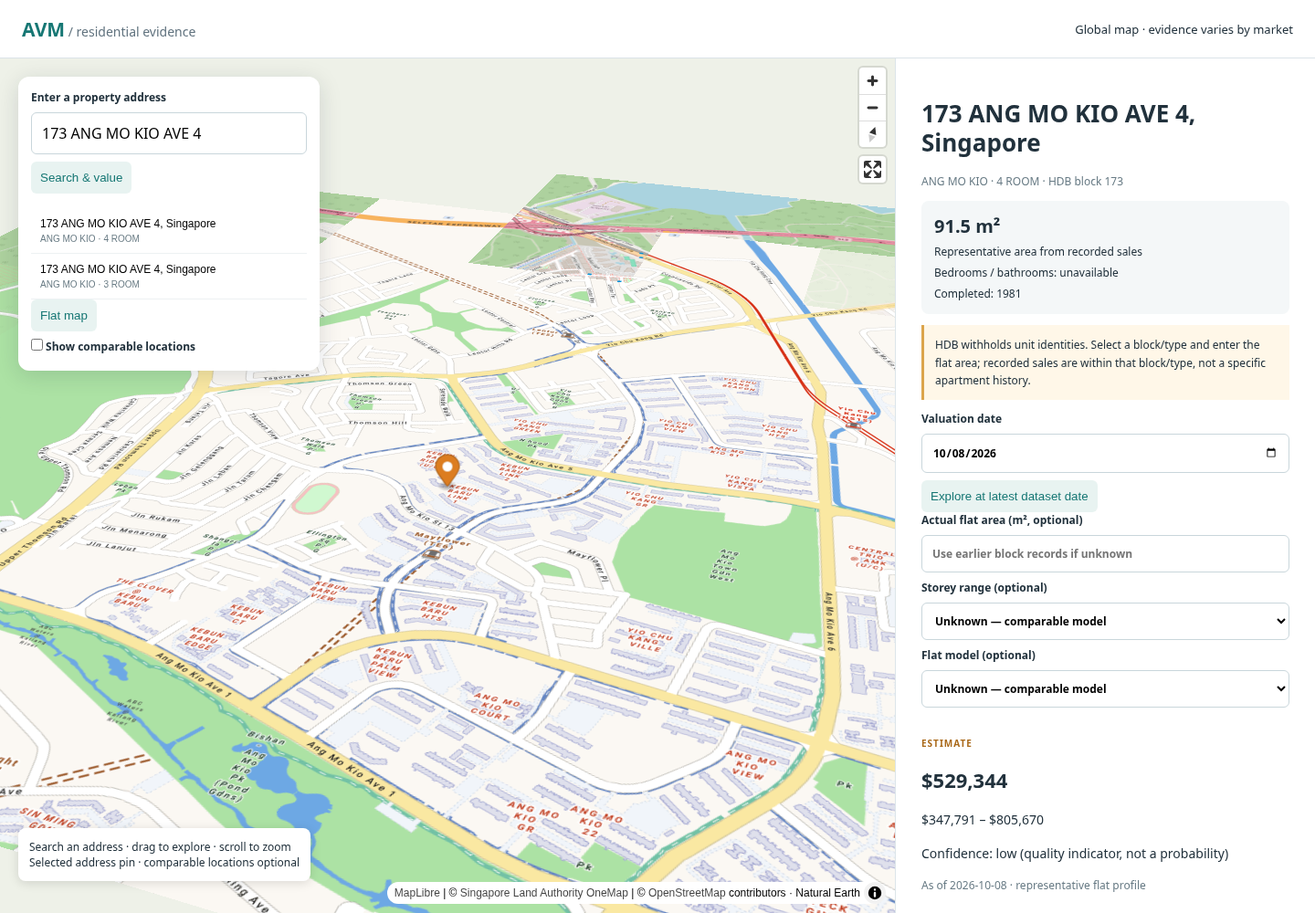
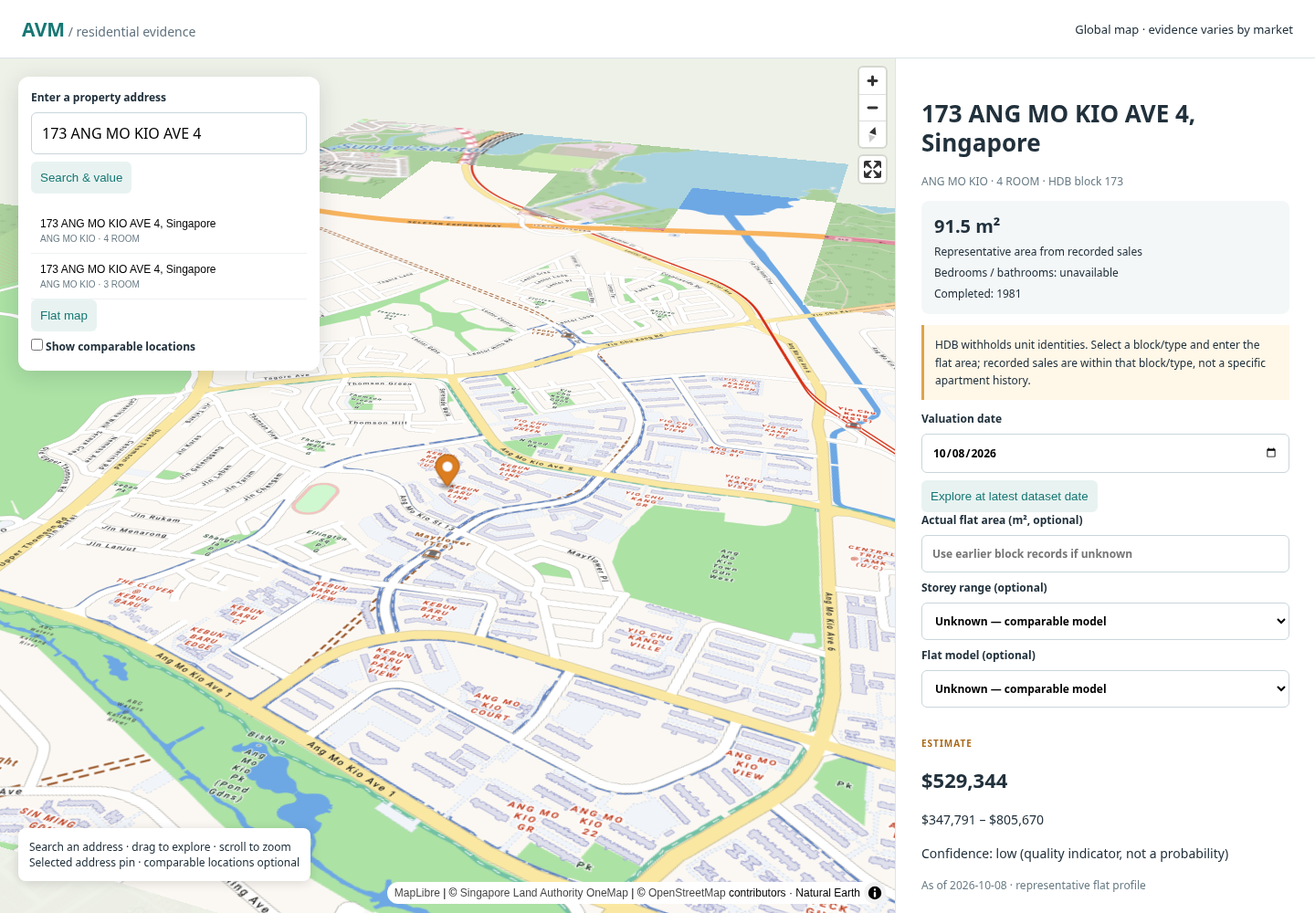
Delete unproven 3D viewer and redundant automatic requests after requirements audit

Changed region(s): [[0.2188, 0.124, 0.6875, 0.341], [0.0, 0.217, 0.0312, 0.248]]

diff --git a/frontend/src/main.jsx b/frontend/src/main.jsx
@@ -27,10 +27,10 @@ function Timeline({result}){
 function App(){
   const [properties,setProperties]=useState([]),[meta,setMeta]=useState(null),[query,setQuery]=useState(''),[selected,setSelected]=useState(null),[result,setResult]=useState(null),[error,setError]=useState(''),[busy,setBusy]=useState(false);
   const [on,setOn]=useState(new Date().toISOString().slice(0,10)),[mapError,setMapError]=useState('');
-  const [area,setArea]=useState(''),[floor,setFloor]=useState(''),[flatModel,setFlatModel]=useState(''),[location,setLocation]=useState(null),[coverage,setCoverage]=useState(null),[globalPlaces,setGlobalPlaces]=useState([]),[bench,setBench]=useState(null),[evidence,setEvidence]=useState(null),[discovering,setDiscovering]=useState(false);
+  const [area,setArea]=useState(''),[floor,setFloor]=useState(''),[flatModel,setFlatModel]=useState(''),[location,setLocation]=useState(null),[globalPlaces,setGlobalPlaces]=useState([]),[evidence,setEvidence]=useState(null);
   const container=useRef(null),map=useRef(null),requestId=useRef(0);
-  const [showComparables,setShowComparables]=useState(false),[tilted,setTilted]=useState(false),[searching,setSearching]=useState(false);
-  useEffect(()=>{Promise.all([api('/metadata'),api('/coverage'),api('/benchmark')]).then(([m,c,b])=>{setMeta(m);setCoverage(c);setBench(b)}).catch(e=>setError(e.message))},[]);
+  const [showComparables,setShowComparables]=useState(false),[tilted,setTilted]=useState(false),[searching,setSearching]=useState(false),[showImagery,setShowImagery]=useState(false);
+  useEffect(()=>{api('/metadata').then(setMeta).catch(e=>setError(e.message))},[]);
   useEffect(()=>{setGlobalPlaces([]);if(query.trim().length<3){setProperties([]);return;}const controller=new AbortController();const timer=setTimeout(()=>{api('/properties?q='+encodeURIComponent(query.trim())+'&limit=20',{signal:controller.signal}).then(setProperties).catch(e=>{if(e.name!=='AbortError')setError(e.message)})},300);return()=>{clearTimeout(timer);controller.abort()}},[query]);
   useEffect(()=>{
     const m=new maplibregl.Map({container:container.current,center:[10,20],zoom:1.5,style:{version:8,sources:{world:{type:'geojson',data:'/world.geojson'},osm:{type:'raster',tiles:[import.meta.env.VITE_TILE_URL||window.location.origin+'/basemap/world/{z}/{x}/{y}.png'],tileSize:256,attribution:'© <a href="https://www.openstreetmap.org/copyright">OpenStreetMap</a> contributors · Natural Earth'},onemap:{type:'raster',tiles:[window.location.origin+'/basemap/sg/{z}/{x}/{y}.png'],tileSize:256,bounds:[103.59,1.13,104.12,1.48],minzoom:9,maxzoom:18,attribution:'© <a href="https://www.onemap.gov.sg/">Singapore Land Authority OneMap</a>'}},layers:[{id:'ocean',type:'background',paint:{'background-color':'#dcebf0'}},{id:'countries',type:'fill',source:'world',paint:{'fill-color':'#eef1e8'}},{id:'borders',type:'line',source:'world',paint:{'line-color':'#adc0bd','line-width':1}},{id:'basemap',type:'raster',source:'osm'},{id:'official-sg',type:'raster',source:'onemap'}]}});
@@ -51,21 +51,14 @@ function App(){
     if(selected&&showComparables)result?.comparable_sales_used.forEach(c=>markers.push(new maplibregl.Marker({color:'#7957a4',scale:.7}).setLngLat([c.longitude,c.latitude]).setPopup(new maplibregl.Popup().setText(money(c.original_price)+' · '+c.area_sqm+' m² · '+c.sale_date.slice(0,7))).addTo(m)));
     return()=>markers.forEach(m=>m.remove());
   },[selected,result,location,showComparables]);
-  useEffect(()=>{
-    setEvidence(null);if(!location){setDiscovering(false);return;}
-    let active=true;setDiscovering(true);
-    api('/evidence/discover',{method:'POST',headers:{'Content-Type':'application/json'},body:JSON.stringify({latitude:location.lat,longitude:location.lon})})
-      .then(r=>{if(active)setEvidence(r)}).catch(e=>{if(active)setError(e.message)})
-      .finally(()=>{if(active)setDiscovering(false)});
-    return()=>{active=false};
-  },[location]);
+  useEffect(()=>{setEvidence(null)},[location]);
   const matches=properties.filter(p=>(p.address+' '+p.neighbourhood+' '+p.property_type).toLowerCase().includes(query.toLowerCase())).slice(0,20);
   function chooseAddress(p){setSelected(null);setResult(null);setLocation({name:p.display_name,lat:Number(p.lat),lon:Number(p.lon)});map.current.flyTo({center:[Number(p.lon),Number(p.lat)],zoom:17});setGlobalPlaces([])}
   async function searchWorld(){setError('');setSearching(true);try{if(properties.length===1){choose(properties[0]);return;}const found=await api('/places?q='+encodeURIComponent(query));const unique=[...new Map(found.map(p=>[p.display_name,p])).values()];if(unique.length===1)chooseAddress(unique[0]);else{setGlobalPlaces(unique);if(!unique.length&&!properties.length)setError('Address not found. Add the city and country.')}}catch(e){setError(e.message)}finally{setSearching(false)}}
   function choose(p){setLocation(null);setResult(null);setArea('');setFloor('');setFlatModel('');setSelected(p);setGlobalPlaces([])}
   return <><header><b className="brand">AVM<span> / residential evidence</span></b><span>Global map · evidence varies by market</span></header><main>
     <section className="map-pane"><div ref={container} className="map"/><div className="search"><form onSubmit={e=>{e.preventDefault();searchWorld()}}><label htmlFor="search">Enter a property address</label><input id="search" value={query} onChange={e=>setQuery(e.target.value)} placeholder="Address, city, country…"/><button className="secondary" type="submit" disabled={query.trim().length<3||searching}>{searching?'Finding address…':'Search & value'}</button></form><div className="matches">{globalPlaces.map(p=><button key={p.place_id} onClick={()=>chooseAddress(p)}>{p.display_name}</button>)}{matches.map(p=><button key={p.property_id} onClick={()=>choose(p)}>{p.address}<small>{p.neighbourhood} · {p.property_type}</small></button>)}</div><button className="secondary" onClick={()=>{const next=!tilted;setTilted(next);map.current.easeTo({pitch:next?60:0,bearing:next?-20:0})}}>{tilted?'Flat map':'Tilt map'}</button>{selected&&<label><input type="checkbox" style={{width:'auto'}} checked={showComparables} onChange={e=>setShowComparables(e.target.checked)}/> Show comparable locations</label>}</div><div className="map-note">{mapError||'Search an address · drag to explore · scroll to zoom'}<br/>Selected address pin · comparable locations optional</div></section>
-    <aside>{!selected?<div className="welcome"><span className="tag">PROPERTY EXPLORER</span><h1>{location?'Selected location':'Find the evidence behind a property’s price.'}</h1>{location&&<><p>{location.name}</p><p>{location.lat.toFixed(5)}, {location.lon.toFixed(5)}</p>{discovering&&<p role="status">Fetching available evidence for this location…</p>}{evidence&&<><p>{evidence.address?.display_name}</p><p className="notice">{evidence.reason}</p>{evidence.matches.map(m=><button className="secondary" key={m.property.property_id} onClick={()=>choose(m.property)}>{m.property.address} · {m.property.property_type} · {m.distance_m} m</button>)}<p className="muted">{evidence.cache_hit?'Cached lookup':'Fresh lookup'} · retrieved {evidence.retrieved_at}{evidence.source_error&&' · '+evidence.source_error}</p></>}</>}<p>Enter an address to gather property evidence and open its valuation. When several flat types share a building, select the matching type.</p><p>{meta?.property_count?.toLocaleString()} supported Singapore block/type profiles · {meta?.scope}.</p><button className="secondary" onClick={()=>map.current.flyTo({center:[103.84,1.35],zoom:11})}>Explore supported Singapore properties</button><p className="notice">{meta?.identity_note}</p><p>Completed-month evidence through {meta?.data_date}.</p><details><summary>Official source coverage</summary>{coverage?.markets.map(c=><p key={c.id}><b>{c.country}</b>: {c.status}<br/>{c.limits}</p>)}</details><details><summary>Measured model accuracy</summary>{bench?.models&&Object.entries(bench.models).map(([name,b])=><p key={name}>{name}: median test error {b.test.median_absolute_percentage_error.toFixed(2)}% on {b.test.count.toLocaleString()} later sales. Applies to known Singapore attributes, not all properties globally.</p>)}</details></div>:<>
+    <aside>{!selected?<div className="welcome"><span className="tag">PROPERTY EXPLORER</span><h1>{location?'Selected location':'Find the evidence behind a property’s price.'}</h1>{location&&<><p>{location.name}</p><p>{location.lat.toFixed(5)}, {location.lon.toFixed(5)}</p>{evidence&&<><p>{evidence.address?.display_name}</p><p className="notice">{evidence.reason}</p>{evidence.matches.map(m=><button className="secondary" key={m.property.property_id} onClick={()=>choose(m.property)}>{m.property.address} · {m.property.property_type} · {m.distance_m} m</button>)}<p className="muted">{evidence.cache_hit?'Cached lookup':'Fresh lookup'} · retrieved {evidence.retrieved_at}{evidence.source_error&&' · '+evidence.source_error}</p></>}</>}<p>Enter an address to gather property evidence and open its valuation. When several flat types share a building, select the matching type.</p><p>{meta?.property_count?.toLocaleString()} supported Singapore block/type profiles · {meta?.scope}.</p><button className="secondary" onClick={()=>map.current.flyTo({center:[103.84,1.35],zoom:11})}>Explore supported Singapore properties</button><p className="notice">{meta?.identity_note}</p><p>Completed-month evidence through {meta?.data_date}.</p></div>:<>
       <h1>{selected.address}</h1><p className="muted">{selected.neighbourhood} · {selected.property_type} · {selected.building}</p><div className="facts"><b>{selected.area_sqm} m²</b><span>Representative area from recorded sales</span><span>Bedrooms / bathrooms: unavailable</span><span>Completed: {selected.year_built||'unavailable'}</span></div>
       <p className="notice">{meta?.identity_note}</p><label>Valuation date <input aria-label="Valuation date" type="date" max={new Date().toISOString().slice(0,10)} value={on} onChange={e=>setOn(e.target.value)}/></label>
       <button className="secondary" onClick={()=>{const d=new Date(meta.data_date);d.setDate(d.getDate()+1);setOn(d.toISOString().slice(0,10))}}>Explore at latest dataset date</button>
@@ -82,10 +75,10 @@ function App(){
         <details><summary>Sources, methodology & reproducibility</summary><p>Data: {result.data_version} · through {result.data_date}</p><p>Method: {result.valuation_method} · model: {result.model_version}</p><p>{result.input_assumptions?.join(' ')}</p><p>{result.interval_method} Calibration predictions: {result.calibration_count}.</p><p>{result.sources.join('; ')}</p><a href={'/valuations/'+result.valuation_id} target="_blank" rel="noreferrer">Open saved valuation receipt (JSON)</a></details>
       </>}
     </>}{!selected&&error&&<p role="alert">{error}</p>}
-    {(location||selected)&&<p><a target="_blank" rel="noreferrer" href={'https://www.mapillary.com/app/?lat='+(location?location.lat:selected.latitude)+'&lng='+(location?location.lon:selected.longitude)+'&z=17'}>Check available street imagery on Mapillary ↗</a><br/><small>External imagery; coverage varies. Tilted map is not a 3D building model.</small></p>}
-    {(location||selected)&&<ImageryPanel latitude={location?location.lat:selected.latitude} longitude={location?location.lon:selected.longitude}/>}
+    {(location||selected)&&<button className="secondary" onClick={()=>setShowImagery(!showImagery)}>{showImagery?'Hide imagery':'Open optional street/satellite imagery'}</button>}
+    {(location||selected)&&showImagery&&<ImageryPanel latitude={location?location.lat:selected.latitude} longitude={location?location.lon:selected.longitude}/>}
     {(location||selected)&&<GeometryPanel map={map.current} latitude={location?location.lat:selected.latitude} longitude={location?location.lon:selected.longitude}/>}
-    {(location||selected)&&<EvidencePanel latitude={location?location.lat:selected.latitude} longitude={location?location.lon:selected.longitude} address={location?location.name:selected.address} propertyId={selected?.property_id} currency={selected?.currency||'USD'}/>}
+    {(location||selected)&&<EvidencePanel latitude={location?location.lat:selected.latitude} longitude={location?location.lon:selected.longitude} address={location?location.name:selected.address} propertyId={selected?.property_id} currency={selected?.currency||'USD'} onLocationEvidence={setEvidence}/>}
     </aside>
   </main></>;
 }

diff --git a/frontend/src/ImageryPanel.jsx b/frontend/src/ImageryPanel.jsx
@@ -1,21 +1,13 @@
-import React,{useEffect,useRef,useState} from 'react';
-let cesiumLoader;
-function loadCesium(){if(window.Cesium)return Promise.resolve(window.Cesium);if(!cesiumLoader)cesiumLoader=new Promise((resolve,reject)=>{const base='https://cdn.jsdelivr.net/npm/cesium@1.134.1/Build/Cesium/';window.CESIUM_BASE_URL=base;const css=document.createElement('link');css.rel='stylesheet';css.href=base+'Widgets/widgets.css';document.head.appendChild(css);const script=document.createElement('script');script.src=base+'Cesium.js';script.onload=()=>resolve(window.Cesium);script.onerror=()=>{cesiumLoader=null;reject(Error('3D viewer unavailable'))};document.head.appendChild(script)});return cesiumLoader;}
-function GoogleTiles({config,latitude,longitude,onFailure}){
-  const element=useRef(null);
-  useEffect(()=>{let disposed=false,viewer;loadCesium().then(async C=>{if(disposed)return;viewer=new C.Viewer(element.current,{baseLayer:false,globe:false,animation:false,timeline:false,geocoder:false,sceneModePicker:false,baseLayerPicker:false,navigationHelpButton:false,homeButton:false});const tiles=await C.createGooglePhotorealistic3DTileset({key:config.browser_key});if(disposed){tiles.destroy();return}viewer.scene.primitives.add(tiles);viewer.camera.lookAt(C.Cartesian3.fromDegrees(longitude,latitude),new C.HeadingPitchRange(0,C.Math.toRadians(-45),600));viewer.camera.lookAtTransform(C.Matrix4.IDENTITY)}).catch(()=>{if(!disposed)onFailure()});return()=>{disposed=true;if(viewer&&!viewer.isDestroyed())viewer.destroy()}},[config.browser_key,latitude,longitude]);
-  return <div ref={element} style={{height:360,width:'100%'}} aria-label="Google photorealistic 3D tiles"/>;
-}
+import React,{useEffect,useState} from 'react';
 export default function ImageryPanel({latitude,longitude}){
-  const [config,setConfig]=useState(null),[mode,setMode]=useState('fallback'),[failed,setFailed]=useState(false);
-  useEffect(()=>{const controller=new AbortController();setConfig(null);setMode('fallback');setFailed(false);fetch(`/imagery?latitude=${latitude}&longitude=${longitude}`,{signal:controller.signal}).then(r=>{if(!r.ok)throw Error();return r.json()}).then(c=>{setConfig(c);if(c.street_view==='available')setMode('street')}).catch(()=>{if(!controller.signal.aborted)setConfig({street_view:"unavailable",browser_key:null,three_d_enabled:false})});return()=>controller.abort()},[latitude,longitude]);
+  const [config,setConfig]=useState(null),[mode,setMode]=useState('fallback');
+  useEffect(()=>{const controller=new AbortController();setConfig(null);setMode('fallback');fetch(`/imagery?latitude=${latitude}&longitude=${longitude}`,{signal:controller.signal}).then(r=>{if(!r.ok)throw Error();return r.json()}).then(c=>{setConfig(c);if(c.street_view==='available')setMode('street')}).catch(()=>{if(!controller.signal.aborted)setConfig({street_view:"unavailable",browser_key:null})});return()=>controller.abort()},[latitude,longitude]);
   const params=new URLSearchParams({key:config?.browser_key||''});
   if(mode==='street'){if(config?.panorama_id)params.set('pano',config.panorama_id);else params.set('location',`${latitude},${longitude}`)}else{params.set('center',`${latitude},${longitude}`);params.set('zoom','18');params.set('maptype','satellite')}
-  return <section><h2>Street imagery and 3D context</h2><p>Street View: {config?.street_view||'checking availability'}</p>
-    {config?.street_view==='available'&&<button className="secondary" onClick={()=>{setMode('street');setFailed(false)}}>360° Street View</button>}{' '}
-    {config?.browser_key&&<button className="secondary" onClick={()=>{setMode('satellite');setFailed(false)}}>Satellite</button>}{' '}
-    {config?.three_d_enabled&&<button className="secondary" onClick={()=>{setMode('3d');setFailed(false)}}>Google photorealistic 3D</button>}
-    {mode==='3d'&&!failed?<GoogleTiles config={config} latitude={latitude} longitude={longitude} onFailure={()=>{setFailed(true);setMode('satellite')}}/>:config?.browser_key&&mode!=='fallback'?<iframe title={mode==='street'?'Google 360 degree Street View':'Google satellite view'} width="100%" height="320" style={{border:0}} loading="lazy" allowFullScreen referrerPolicy="no-referrer-when-downgrade" src={`https://www.google.com/maps/embed/v1/${mode==='street'?'streetview':'view'}?${params}`}/>:<p className="muted">Google API keys are not configured. OpenStreetMap and outline measurement remain available.</p>}
-    {failed&&<p>3D unavailable; switched to satellite view. Coverage and API permissions vary.</p>}<p><a href={`https://www.google.com/maps/@${latitude},${longitude},19z/data=!3m1!1e3`} target="_blank" rel="noreferrer">Open satellite viewer ↗</a></p><p className="muted">Imagery shows visual context, not verified parcel boundaries. Google services require enabled APIs, appropriate keys and applicable billing.</p>
+  return <section><h2>Optional visual reference</h2><p>Street View: {config?.street_view||'checking availability'}</p>
+    {config?.street_view==='available'&&<button className="secondary" onClick={()=>{setMode('street')}}>360° Street View</button>}{' '}
+    {config?.browser_key&&<button className="secondary" onClick={()=>{setMode('satellite')}}>Satellite</button>}{' '}
+    {config?.browser_key&&mode!=='fallback'?<iframe title={mode==='street'?'Google 360 degree Street View':'Google satellite view'} width="100%" height="320" style={{border:0}} loading="lazy" allowFullScreen referrerPolicy="no-referrer-when-downgrade" src={`https://www.google.com/maps/embed/v1/${mode==='street'?'streetview':'view'}?${params}`}/>:<p className="muted">Google API keys are not configured. OpenStreetMap and outline measurement remain available.</p>}
+    <p><a href={`https://www.google.com/maps/@${latitude},${longitude},19z/data=!3m1!1e3`} target="_blank" rel="noreferrer">Open satellite viewer ↗</a></p><p className="muted">Imagery shows visual context, not verified parcel boundaries. Google services require enabled APIs, appropriate keys and applicable billing.</p>
   </section>;
 }

diff --git a/frontend/src/GeometryPanel.jsx b/frontend/src/GeometryPanel.jsx
@@ -1,9 +1,10 @@
-import React,{useEffect,useState} from 'react';
+import React,{useEffect,useRef,useState} from 'react';
 export default function GeometryPanel({map,latitude,longitude}) {
   const [drawing,setDrawing]=useState(false),[vertices,setVertices]=useState([]),[kind,setKind]=useState('land parcel'),[corner,setCorner]=useState('unknown'),[result,setResult]=useState(null),[error,setError]=useState('');
   const [source,setSource]=useState('user-drawn outline');
-  const [footprints,setFootprints]=useState(null);
-  useEffect(()=>{const controller=new AbortController();setFootprints(null);fetch(`/footprints?latitude=${latitude}&longitude=${longitude}`,{signal:controller.signal}).then(r=>{if(!r.ok)throw Error();return r.json()}).then(setFootprints).catch(()=>{if(!controller.signal.aborted)setFootprints({status:"source unavailable",features:[],limits:"Draw or import an outline instead."})});return()=>controller.abort()},[latitude,longitude]);
+  const [footprints,setFootprints]=useState(null);const footprintRequest=useRef(0);
+  useEffect(()=>{footprintRequest.current++;setFootprints(null);return()=>{footprintRequest.current++}},[latitude,longitude]);
+  async function findFootprints(){const n=++footprintRequest.current;setFootprints({status:'checking nearby buildings',features:[]});try{const r=await fetch(`/footprints?latitude=${latitude}&longitude=${longitude}`);if(!r.ok)throw Error();const data=await r.json();if(n===footprintRequest.current)setFootprints(data)}catch{if(n===footprintRequest.current)setFootprints({status:'source unavailable',features:[],limits:'Draw or import an outline instead.'})}}
   useEffect(()=>{setDrawing(false);setVertices([]);setResult(null)},[latitude,longitude]);
   useEffect(()=>{if(!map)return;map.__measuring=drawing;const click=e=>{if(drawing){setVertices(v=>[...v,[e.lngLat.lng,e.lngLat.lat]]);setResult(null)}};map.on('click',click);if(drawing)map.getCanvas().style.cursor='crosshair';return()=>{map.off('click',click);map.__measuring=false;map.getCanvas().style.cursor=''}},[map,drawing]);
   useEffect(()=>{
@@ -20,7 +21,7 @@ export default function GeometryPanel({map,latitude,longitude}) {
   async function finish(){setDrawing(false);setError('');try{const r=await fetch('/measurements',{method:'POST',headers:{'Content-Type':'application/json'},body:JSON.stringify({coordinates:vertices,area_kind:kind,corner_status:corner,source})});const body=await r.json();if(!r.ok)throw Error(typeof body.detail==='string'?body.detail:'Check coordinates');setResult(body)}catch(e){setError(e.message)}}
   async function importOutline(event){try{const file=event.target.files[0];if(!file)return;if(file.size>2000000)throw Error('Use a single outline file smaller than 2 MB');let data=JSON.parse(await file.text());if(data.type==='FeatureCollection'){if(data.features.length!==1)throw Error('Import one property outline at a time');data=data.features[0]}const geometry=data.type==='Feature'?data.geometry:data;if(geometry.type!=='Polygon'||geometry.coordinates.length!==1)throw Error('Use a single Polygon without holes');const ring=geometry.coordinates[0];if(ring.length<4||ring.length>201||ring.some(p=>!Array.isArray(p)||p.length!==2||!p.every(Number.isFinite)))throw Error('Invalid polygon coordinates');if(JSON.stringify(ring[0])!==JSON.stringify(ring[ring.length-1]))throw Error('Polygon ring must be closed');setVertices(ring.slice(0,-1));setSource('Imported GeoJSON (user supplied): '+file.name);setDrawing(false);setResult(null);setError('');map.flyTo({center:ring[0],zoom:19})}catch(e){setError(e.message)}event.target.value=''}
   return <section><h2>Measure plot or building outline</h2><p>Zoom close, start drawing and click each boundary corner. Finish with at least three points.</p><p><a href={`https://www.google.com/maps/@${latitude},${longitude},19z/data=!3m1!1e3`} target="_blank" rel="noreferrer">Open Google Maps satellite at this location ↗</a></p>
-    <p>Open footprint lookup: {footprints?.status||'checking nearby mapped buildings'}</p>{footprints?.features.slice(0,5).map(f=><button className="secondary" key={f.properties.id} onClick={()=>{setVertices(f.geometry.coordinates[0].slice(0,-1));setKind('building footprint');setSource(f.properties.source);setDrawing(false);setResult(null)}}>Use mapped building {f.properties.id} · {f.properties.area_sqm} m²</button>)}{footprints&&<p className="muted">{footprints.limits}</p>}
+    <button className="secondary" onClick={findFootprints}>Find open building outlines</button><p>{footprints?.status||'Outline lookup runs only when requested.'}</p>{footprints?.features.slice(0,5).map(f=><button className="secondary" key={f.properties.id} onClick={()=>{setVertices(f.geometry.coordinates[0].slice(0,-1));setKind('building footprint');setSource(f.properties.source);setDrawing(false);setResult(null)}}>Use mapped building {f.properties.id} · {f.properties.area_sqm} m²</button>)}{footprints&&<p className="muted">{footprints.limits}</p>}
     <label>Import one GeoJSON outline (Microsoft, OSM or parcel source)<input aria-label="Import outline" type="file" accept=".json,.geojson,application/json" onChange={importOutline}/></label>
     <label>Area kind<select aria-label="Area kind" value={kind} onChange={e=>{setKind(e.target.value);setResult(null)}}><option value="land parcel">Plot / land parcel</option><option value="building footprint">Building ground footprint</option></select></label>
     <label>Corner plot status<select value={corner} onChange={e=>{setCorner(e.target.value);setResult(null)}}><option value="unknown">Unknown</option><option value="user confirmed corner">I confirm it is a corner plot</option><option value="user confirmed not corner">I confirm it is not a corner plot</option></select></label>

diff --git a/frontend/src/EvidencePanel.jsx b/frontend/src/EvidencePanel.jsx
@@ -1,6 +1,6 @@
 import React, {useEffect,useState} from 'react';
 
-export default function EvidencePanel({latitude,longitude,address,propertyId,currency='USD'}) {
+export default function EvidencePanel({latitude,longitude,address,propertyId,currency='USD',onLocationEvidence}) {
   const [urls,setUrls]=useState(''),[area,setArea]=useState(''),[unit,setUnit]=useState(currency),[yieldRate,setYieldRate]=useState('');
   const [result,setResult]=useState(null),[busy,setBusy]=useState(false),[error,setError]=useState('');
   const [propertyType,setPropertyType]=useState('residential');
@@ -9,10 +9,10 @@ export default function EvidencePanel({latitude,longitude,address,propertyId,cur
     try {
       const response=await fetch('/intelligence',{method:'POST',signal,headers:{'Content-Type':'application/json'},body:JSON.stringify({latitude,longitude,address:address||'',property_id:propertyId||null,property_type:initial?'residential':propertyType,currency:initial?currency:unit,area_sqm:initial?null:area?Number(area):null,annual_gross_yield:initial?null:yieldRate?Number(yieldRate)/100:null,source_urls:initial?[]:urls.split(/\n/).map(u=>u.trim()).filter(Boolean)})});
       const body=await response.json();if(!response.ok)throw Error(typeof body.detail==='string'?body.detail:'Check the supplied inputs and URLs.');
-      if(!signal?.aborted)setResult(body);
+      if(!signal?.aborted){setResult(body);onLocationEvidence?.(body.location_evidence)}
     }catch(e){if(e.name!=='AbortError')setError(e.message)}finally{if(!signal?.aborted)setBusy(false)}
   }
-  useEffect(()=>{const controller=new AbortController();setResult(null);setUrls('');setArea('');setYieldRate('');setUnit(currency);run(controller.signal,true);return()=>controller.abort()},[latitude,longitude,propertyId,currency]);
+  useEffect(()=>{const controller=new AbortController();setResult(null);setUrls('');setArea('');setYieldRate('');setUnit(currency);setBusy(false);if(!propertyId)run(controller.signal,true);return()=>controller.abort()},[latitude,longitude,propertyId,currency]);
   const format=n=>n==null?'Unavailable':new Intl.NumberFormat('en',{style:'currency',currency:result?.property.currency||unit,maximumFractionDigits:0}).format(n);
   return <section><h2>On-demand property intelligence</h2><p>Fetch published source evidence for this location. Sale transactions, asking prices and rents remain separate.</p>
     <label>Public listing/source URLs (one per line, maximum 8)<textarea aria-label="Source URLs" rows="3" value={urls} onChange={e=>setUrls(e.target.value)} placeholder="https://…" style={{width:'100%'}}/></label>

diff --git a/tests/test_integrations.py b/tests/test_integrations.py
@@ -7,7 +7,7 @@ def test_missing_keys_fallback_no_invented_search(monkeypatch):
     for name in ('BRAVE_SEARCH_API_KEY','GOOGLE_MAPS_API_KEY','GOOGLE_MAPS_SERVER_KEY','GOOGLE_MAPS_BROWSER_KEY'):monkeypatch.delenv(name,raising=False)
     assert search_address('10 Example Street')['results']==[]
     value=imagery(1,2)
-    assert value['street_view']=='not configured' and not value['three_d_enabled']
+    assert value['street_view']=='not configured' and 'three_d_enabled' not in value
     assert 'OpenStreetMap' in value['fallbacks']
 
 def test_brave_queries_rank_deduplicate_and_cache(monkeypatch):
@@ -30,13 +30,12 @@ def test_brave_queries_rank_deduplicate_and_cache(monkeypatch):
 def test_street_view_metadata_hides_server_key(monkeypatch):
     monkeypatch.setenv('GOOGLE_MAPS_SERVER_KEY','private-server-key')
     monkeypatch.setenv('GOOGLE_MAPS_BROWSER_KEY','public-restricted-key')
-    monkeypatch.setenv('GOOGLE_3D_TILES_ENABLED','true')
     class Response:
         def raise_for_status(self):pass
         def json(self):return {'status':'OK','pano_id':'abc','date':'2025-01'}
     monkeypatch.setattr('app.integrations.httpx.get',lambda *a,**k:Response())
     result=imagery(1,2)
-    assert result['street_view']=='available' and result['three_d_enabled']
+    assert result['street_view']=='available' and 'three_d_enabled' not in result
     assert 'private-server-key' not in str(result)
     assert TestClient(app).get('/imagery?latitude=91&longitude=0').status_code==422
 

diff --git a/app/integrations.py b/app/integrations.py
@@ -42,7 +42,7 @@ def search_address(address,neighbourhood=''):
 def imagery(latitude,longitude):
     server_key=os.environ.get('GOOGLE_MAPS_SERVER_KEY') or os.environ.get('GOOGLE_MAPS_API_KEY')
     browser_key=os.environ.get('GOOGLE_MAPS_BROWSER_KEY')
-    result={'street_view':'not configured','browser_key':browser_key,'three_d_enabled':bool(browser_key and os.environ.get('GOOGLE_3D_TILES_ENABLED')=='true'),'fallbacks':['satellite viewer','OpenStreetMap','imported building footprints']}
+    result={'street_view':'not configured','browser_key':browser_key,'fallbacks':['satellite viewer','OpenStreetMap','imported building footprints']}
     if server_key:
         try:
             response=httpx.get('https://maps.googleapis.com/maps/api/streetview/metadata',params={'location':f'{latitude},{longitude}','radius':50,'key':server_key},timeout=10)

diff --git a/docs/REQUIREMENTS_AUDIT.md b/docs/REQUIREMENTS_AUDIT.md
@@ -1,0 +1,54 @@
+# Question → delete → simplify
+
+This audit supersedes earlier descriptions of automatic imagery/outline calls and
+Google photorealistic 3D support. Those behaviors were removed during simplification.
+
+| Requirement / origin | Why it exists and what removal changes | Decision / proof needed |
+|---|---|---|
+| Address search — customer | Identifies the intended property; removing it breaks the main journey | Keep; test search-to-result |
+| Exact household identity — customer / data correctness | Wrong identity attaches another property's price | Keep explicit ambiguity; unit identity must be verified before calling block history household history |
+| Evidence, date, currency, measurement type — correctness | Numbers without these can compare different things | Keep; retain source receipts and checks |
+| Sales comparison — customer / appraisal method | Establishes market price from substitutes | Keep; judge by held-out actual sales |
+| Multiple model implementations — engineering choice | Useful only if accuracy warrants complexity | Existing measured baseline/challenger remain; no new model unless it beats validation |
+| 3D rendering/Cesium — customer feature request | Shows context, not measured market value; no demonstrated accuracy gain | Delete viewer, loader and enable flag; add back only with a validated user benefit |
+| Street imagery — customer feature request | Can help visual review but is not necessary for every valuation | Optional explicit action; keep satellite link fallback |
+| Every-address footprint query — implementation choice | Added latency/network calls even when size is already known | Delete automatic lookup; request only when measurement is needed |
+| Two discovery calls — implementation accident | Main panel and intelligence both called discovery | Delete standalone client discovery; share intelligence location evidence |
+| Two initial valuations — implementation accident | Supported property was valued in both main and intelligence panels | Delete automatic intelligence run for already-selected supported profiles |
+| Front-page benchmark/coverage requests and panels — presentation choice | Consumed requests/UI without helping select an address | Delete from startup UI; API/research evidence remains available |
+| Duplicate imagery links — presentation choice | Google and Mapillary controls repeated similar functions | Delete extra Mapillary control |
+| Heavy raster/SAM/QGIS pipeline — suggested implementation | Needs suitable imagery and testing; cannot manufacture boundary detail | Do not add until measured attribute/valuation benefit |
+| Voronoi plots / guessed floor counts — suggested implementation | Generates assumptions instead of measured parcel/unit attributes | Reject for valuation inputs |
+| Global preloaded property database / marker layer — implementation choice | Large initial load and clutter | Remains deleted from main journey; query only what is selected |
+| Historical test data — accuracy requirement | Necessary to measure failures and calibrate uncertainty | Keep existing source archives; deleting them would remove the evidence supporting accuracy claims |
+| PostgreSQL deployment — implementation choice | Useful shared/spatial persistence; unnecessary for one-user local preview | Keep optional; file storage remains usable |
+
+The remaining journey is address → identity → usable evidence → estimate or
+abstention → receipt. Measurement and visual review are explicit optional tools.
+Keep range calibration and historical validation: neither imagery nor attractive
+3D rendering substitutes for evidence that predictions match later actual sales.
+
+## Concrete help with external blockers
+
+The observed cloud errors were HTTP/proxy 403 responses, not missing Python
+libraries. Check the cloud environment's network settings and permit the sources
+that will actually be used:
+
+- `overpass-api.de`: implemented OSM building-outline query.
+- `stac.overturemaps.org`: catalogue for a potential Overture adapter; that adapter
+  is not implemented, so enabling the domain alone does not add it.
+- `bfppub.blob.core.windows.net`: Microsoft's footprint index/downloads; automatic
+  Microsoft retrieval is not implemented. Imported outlines are supported.
+- `planetarycomputer.microsoft.com`: potential imagery catalogue, not required by
+  the current measurement tool.
+- `api.search.brave.com`: optional search API, additionally requiring its key.
+- `maps.googleapis.com`: optional Street View metadata API, additionally requiring
+  its server key. Browser embedding needs a restricted browser key and enabled APIs.
+
+Start with Overpass for free outline retrieval. Permit only the sources needed,
+then retry a representative request. A saved allowlist is not proof of live access.
+If you cannot edit cloud networking, running locally can test whether the denial
+is specific to the cloud proxy. No claim is made that local access will succeed.
+Add credentials privately through environment settings or ignored `.env`, never
+through chat. Leave Google/search keys empty if the immediate priority is the free
+measurement and existing supported-market valuation workflow.

diff --git a/docs/SOURCE_INTEGRATIONS.md b/docs/SOURCE_INTEGRATIONS.md
@@ -16,26 +16,23 @@ the public browser key to your website and required APIs. Enable the Street View
 Static and Maps Embed APIs as appropriate to the two calls. Billing/quotas and
 provider terms apply; free source data is not a guarantee of free API usage.
 
-Setting `GOOGLE_3D_TILES_ENABLED=true` explicitly enables the 3D button. It uses
-CesiumJS 1.134.1 and Google Photorealistic 3D Tiles with the browser key; enable
-Google Map Tiles API. No Cesium ion token is required. Google/Cesium attribution
-is left visible. 3D is loaded on button press, not for every valuation. Failed 3D
-loading switches to satellite embed; absent keys leave OSM and outline tools usable.
-Street View metadata errors/no coverage are shown. A Google satellite viewer link
-is available even without API integration. Google embed permission errors within
-the cross-origin iframe cannot be reliably detected by the parent app.
+Photorealistic 3D/Cesium and its enable flag were deleted in the requirements
+audit because no valuation-accuracy benefit was demonstrated. Street View and
+satellite reference remain optional explicit actions. Missing keys leave OSM and
+outline tools usable. Google embed errors inside a cross-origin iframe cannot be
+reliably detected by the parent app.
 
 Set variables in the environment before launching; `.env.example` lists names.
 Alternatively copy that template to the ignored `.env` file and fill values locally;
 `start.command` loads it through Uvicorn's dotenv support. Docker Compose also
 passes these optional settings through to the web service. Do not commit keys.
 Neither provider credential was present
-during development, so authenticated live search, Google coverage and 3D rendering
+during development, so authenticated live search, Google coverage
 remain unverified. Their integration logic is tested with controlled API responses.
 
 ## Free outline lookup and measurement
 
-Address selection requests OSM building ways within 125 m via Overpass. Up to 100
+Explicit outline lookup requests OSM building ways within 125 m via Overpass. Up to 100
 simple closed outlines are normalized, measured with WGS84 and cached for a day.
 The panel offers up to five outline choices; users confirm the appropriate building.
 It does not silently treat the nearest building as a legal plot or a particular unit.

diff --git a/README.md b/README.md
@@ -73,8 +73,12 @@ HDB sales/buildings: data.gov.sg and original Singapore government data terms. C
 This is a buyer research tool. Private residential Singapore property, exact apartment history and majority-world valuation coverage have not yet been demonstrated. Public hosting, HTTPS, backups and ongoing refresh/monitoring remain deployment work.
 # On-demand worldwide discovery
 
-Automatic Brave web-search and optional Google 360° Street View/Photorealistic 3D
-Tiles integrations are now available behind API-key configuration. OSM building
+The latest [requirements audit and deletions](docs/REQUIREMENTS_AUDIT.md) removes
+3D rendering, duplicate initial valuations/discovery calls, automatic footprint
+requests and startup presentation panels. Optional tools run when requested.
+
+Automatic Brave web-search and optional Google 360° Street View
+integration are now available behind API-key configuration. Explicit OSM building
 footprint lookup requests only a 125 m area around the selected address; source
 failures leave drawing/import available. No parcel is invented from a building
 outline. See [configuration, tested behavior and exclusions](docs/SOURCE_INTEGRATIONS.md).
